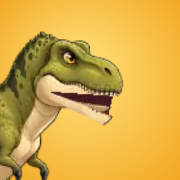
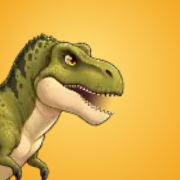
All 28 dinosaurs from sprite pack v4 (rebuilt jaws)
Claude-Session: https://claude.ai/code/session_01VZZ5QiPWKQFCNGsoWHmeoG

Changed region(s): [[0.1389, 0.1667, 0.6944, 0.8333], [0.25, 0.5556, 0.2778, 0.5833]]

diff --git a/index.html b/index.html
@@ -245,7 +245,7 @@ button:focus-visible{outline:4px solid var(--paper);outline-offset:2px}
       <div class="row" id="bkMain"><button id="bkSave" type="button">Back up to a file</button><button id="bkLoad" type="button" class="plain">Restore from a file</button></div>
       <div class="row" id="bkAsk" hidden><button id="bkYes" type="button">Restore it</button><button id="bkNo" type="button" class="plain">Cancel</button></div>
       <div class="row" style="margin-top:12px"><button id="bkClose" type="button" class="plain">Close</button></div>
-      <p style="margin:10px 0 0;font-size:12px;opacity:.55">Version <span id="bkVer">202611011554</span></p>
+      <p style="margin:10px 0 0;font-size:12px;opacity:.55">Version <span id="bkVer">202611011608</span></p>
       <input id="bkFile" type="file" accept=".json,application/json,text/plain" hidden>
     </div>
   </div>
@@ -561,7 +561,7 @@ function desat(col) {
 function realC(sp) { let o = realCols.get(sp); if (!o) { o = {}; for (const k in sp.c) o[k] = typeof sp.c[k] === 'string' ? desat(sp.c[k]) : sp.c[k]; realCols.set(sp, o); } return o; }
 /* painted, rigged animation frames for every species (sprites/<id>.webp): idle, walk (swim or fly for sea and flying reptiles), bite and roar.
    Each sheet loads the first time that animal is shown; until then a still picture from sprites/icons.webp stands in. */
-const SHEET_META = {"trex":{"cw":306,"ch":192,"cols":8,"k":1.0,"body":[4.0,5.0,299.0,188.0],"mouth":[299.0,52.0],"acts":{"idle":{"f":[0,1,2,3,4,5,6,7],"fps":4.0,"op":[0.0,0.0,0.0,0.0,0.0,0.0,0.0,0.0]},"walk":{"f":[8,9,10,11,12,13,14,15,16,17,18,19,20,21,22,23],"fps":16.0,"op":[0.0,0.0,0.0,0.0,0.0,0.0,0.0,0.0,0.0,0.0,0.0,0.0,0.0,0.0,0.0,0.0]},"bite":{"f":[24,25,26,27,28,29,30,31,32,33,34,35],"fps":14.667,"op":[0.0,0.14,0.28,0.52,0.78,1.0,0.37,0.06,0.2,0.14,0.07,0.0]},"roar":{"f":[36,37,38,39,40,41,42,43,44,45],"fps":7.6,"op":[0.0,0.4,0.8,0.95,1.0,0.94,1.0,0.93,0.7,0.23]}},"icon":[0,0]},"spino":{"cw":306,"ch":175,"cols":8,"k":1.0,"body":[4.0,5.0,300.0,171.0],"mouth":[300.0,46.0],"acts":{"idle":{"f":[0,1,2,3,4,5,6,7],"fps":4.0,"op":[0.0,0.0,0.0,0.0,0.0,0.0,0.0,0.0]},"walk":{"f":[8,9,10,11,12,13,14,15,16,17,18,19,20,21,22,23],"fps":16.0,"op":[0.0,0.0,0.0,0.0,0.0,0.0,0.0,0.0,0.0,0.0,0.0,0.0,0.0,0.0,0.0,0.0]},"bite":{"f":[24,25,26,27,28,29,30,31,32,33,34,35],"fps":14.667,"op":[0.0,0.14,0.28,0.52,0.78,1.0,0.37,0.06,0.2,0.14,0.07,0.0]},"roar":{"f":[36,37,38,39,40,41,42,43,44,45],"fps":7.6,"op":[0.0,0.4,0.8,0.95,1.0,0.94,1.0,0.93,0.7,0.23]}},"icon":[323,0]},"raptor":{"cw":312,"ch":198,"cols":8,"k":1.0,"body":[7.0,5.0,306.0,194.0],"mouth":[306.0,44.0],"acts":{"idle":{"f":[0,1,2,3,4,5,6,7],"fps":4.0,"op":[0.0,0.0,0.0,0.0,0.0,0.0,0.0,0.0]},"walk":{"f":[8,9,10,11,12,13,14,15,16,17,18,19,20,21,22,23],"fps":16.0,"op":[0.0,0.0,0.0,0.0,0.0,0.0,0.0,0.0,0.0,0.0,0.0,0.0,0.0,0.0,0.0,0.0]},"bite":{"f":[24,25,26,27,28,29,30,31,32,33,34,35],"fps":14.667,"op":[0.0,0.14,0.28,0.52,0.78,1.0,0.37,0.06,0.2,0.14,0.07,0.0]},"roar":{"f":[36,37,38,39,40,41,42,43,44,45],"fps":7.6,"op":[0.0,0.4,0.8,0.95,1.0,0.94,1.0,0.93,0.7,0.23]}},"icon":[646,0]},"dilo":{"cw":295,"ch":191,"cols":8,"k":1.0,"body":[4.0,5.0,287.0,187.0],"mouth":[287.0,47.0],"acts":{"idle":{"f":[0,1,2,3,4,5,6,7],"fps":4.0,"op":[0.0,0.0,0.0,0.0,0.0,0.0,0.0,0.0]},"walk":{"f":[8,9,10,11,12,13,14,15,16,17,18,19,20,21,22,23],"fps":16.0,"op":[0.0,0.0,0.0,0.0,0.0,0.0,0.0,0.0,0.0,0.0,0.0,0.0,0.0,0.0,0.0,0.0]},"bite":{"f":[24,25,26,27,28,29,30,31,32,33,34,35],"fps":14.667,"op":[0.0,0.14,0.28,0.52,0.78,1.0,0.37,0.06,0.2,0.14,0.07,0.0]},"roar":{"f":[36,37,38,39,40,41,42,43,44,45],"fps":7.6,"op":[0.0,0.4,0.8,0.95,1.0,0.94,1.0,0.93,0.7,0.23]}},"icon":[969,0]},"pachy":{"cw":309,"ch":205,"cols":8,"k":1.0,"body":[5.0,5.0,303.0,201.0],"mouth":[303.0,66.0],"acts":{"idle":{"f":[0,1,2,3,4,5,6,7],"fps":4.0,"op":[0.0,0.0,0.0,0.0,0.0,0.0,0.0,0.0]},"walk":{"f":[8,9,10,11,12,13,14,15,16,17,18,19,20,21,22,23],"fps":16.0,"op":[0.0,0.0,0.0,0.0,0.0,0.0,0.0,0.0,0.0,0.0,0.0,0.0,0.0,0.0,0.0,0.0]},"bite":{"f":[24,25,26,27,28,29,30,31,32,33,34,35],"fps":14.667,"op":[0.0,0.14,0.28,0.52,0.78,1.0,0.37,0.06,0.2,0.14,0.07,0.0]},"roar":{"f":[36,37,38,39,40,41,42,43,44,45],"fps":7.6,"op":[0.0,0.4,0.8,0.95,1.0,0.94,1.0,0.93,0.7,0.23]}},"icon":[1292,0]},"para":{"cw":292,"ch":223,"cols":8,"k":1.0,"body":[4.0,5.0,286.0,219.0],"mouth":[286.0,68.0],"acts":{"idle":{"f":[0,1,2,3,4,5,6,7],"fps":4.0,"op":[0.0,0.0,0.0,0.0,0.0,0.0,0.0,0.0]},"walk":{"f":[8,9,10,11,12,13,14,15,16,17,18,19,20,21,22,23],"fps":16.0,"op":[0.0,0.0,0.0,0.0,0.0,0.0,0.0,0.0,0.0,0.0,0.0,0.0,0.0,0.0,0.0,0.0]},"bite":{"f":[24,25,26,27,28,29,30,31,32,33,34,35],"fps":14.667,"op":[0.0,0.14,0.28,0.52,0.78,1.0,0.37,0.06,0.2,0.14,0.07,0.0]},"roar":{"f":[36,37,38,39,40,41,42,43,44,45],"fps":7.6,"op":[0.0,0.4,0.8,0.95,1.0,0.94,1.0,0.93,0.7,0.23]}},"icon":[1615,0]},"trike":{"cw":286,"ch":196,"cols":8,"k":1.0,"body":[4.0,5.0,274.0,191.0],"mouth":[274.0,27.0],"acts":{"idle":{"f":[0,1,2,3,4,5,6,7],"fps":4.0,"op":[0.0,0.0,0.0,0.0,0.0,0.0,0.0,0.0]},"walk":{"f":[8,9,10,11,12,13,14,15,16,17,18,19,20,21,22,23],"fps":16.0,"op":[0.0,0.0,0.0,0.0,0.0,0.0,0.0,0.0,0.0,0.0,0.0,0.0,0.0,0.0,0.0,0.0]},"bite":{"f":[24,25,26,27,28,29,30,31,32,33,34,35],"fps":14.667,"op":[0.0,0.14,0.28,0.52,0.78,1.0,0.37,0.06,0.2,0.14,0.07,0.0]},"roar":{"f":[36,37,38,39,40,41,42,43,44,45],"fps":7.6,"op":[0.0,0.4,0.8,0.95,1.0,0.94,1.0,0.93,0.7,0.23]}},"icon":[1938,0]},"stego":{"cw":289,"ch":178,"cols":8,"k":1.0,"body":[3.0,4.0,282.0,172.0],"mouth":[272.0,103.0],"acts":{"idle":{"f":[0,1,2,3,4,5,6,7],"fps":4.0,"op":[0.0,0.0,0.0,0.0,0.0,0.0,0.0,0.0]},"walk":{"f":[8,9,10,11,12,13,14,15,16,17,18,19,20,21,22,23],"fps":16.0,"op":[0.0,0.0,0.0,0.0,0.0,0.0,0.0,0.0,0.0,0.0,0.0,0.0,0.0,0.0,0.0,0.0]},"bite":{"f":[24,25,26,27,28,29,30,31,32,33,34,35],"fps":14.667,"op":[0.0,0.14,0.28,0.52,0.78,1.0,0.37,0.06,0.2,0.14,0.07,0.0]},"roar":{"f":[36,37,38,39,40,41,42,43,44,45],"fps":7.6,"op":[0.0,0.4,0.8,0.95,1.0,0.94,1.0,0.93,0.7,0.23]}},"icon":[0,281]},"brachio":{"cw":288,"ch":281,"cols":8,"k":1.0,"body":[7.0,6.0,281.0,276.0],"mouth":[281.0,30.0],"acts":{"idle":{"f":[0,1,2,3,4,5,6,7],"fps":4.0,"op":[0.0,0.0,0.0,0.0,0.0,0.0,0.0,0.0]},"walk":{"f":[8,9,10,11,12,13,14,15,16,17,18,19,20,21,22,23],"fps":16.0,"op":[0.0,0.0,0.0,0.0,0.0,0.0,0.0,0.0,0.0,0.0,0.0,0.0,0.0,0.0,0.0,0.0]},"bite":{"f":[24,25,26,27,28,29,30,31,32,33,34,35],"fps":14.667,"op":[0.0,0.14,0.28,0.52,0.78,1.0,0.37,0.06,0.2,0.14,0.07,0.0]},"roar":{"f":[36,37,38,39,40,41,42,43,44,45],"fps":7.6,"op":[0.0,0.4,0.8,0.95,1.0,0.94,1.0,0.93,0.7,0.23]}},"icon":[323,281]},"ankylo":{"cw":313,"ch":149,"cols":8,"k":1.0,"body":[7.0,11.0,306.0,144.0],"mouth":[306.0,73.0],"acts":{"idle":{"f":[0,1,2,3,4,5,6,7],"fps":4.0,"op":[0.0,0.0,0.0,0.0,0.0,0.0,0.0,0.0]},"walk":{"f":[8,9,10,11,12,13,14,15,16,17,18,19,20,21,22,23],"fps":16.0,"op":[0.0,0.0,0.0,0.0,0.0,0.0,0.0,0.0,0.0,0.0,0.0,0.0,0.0,0.0,0.0,0.0]},"bite":{"f":[24,25,26,27,28,29,30,31,32,33,34,35],"fps":14.667,"op":[0.0,0.14,0.28,0.52,0.78,1.0,0.37,0.06,0.2,0.14,0.07,0.0]},"roar":{"f":[36,37,38,39,40,41,42,43,44,45],"fps":7.6,"op":[0.0,0.4,0.8,0.95,1.0,0.94,1.0,0.93,0.7,0.23]}},"icon":[646,281]},"ptera":{"cw":294,"ch":249,"cols":8,"k":1.0,"body":[13.0,17.0,287.0,239.0],"mouth":[287.0,143.0],"acts":{"idle":{"f":[0,1,2,3,4,5,6,7],"fps":4.0,"op":[0.0,0.0,0.0,0.0,0.0,0.0,0.0,0.0]},"walk":{"f":[8,9,10,11,12,13,14,15,16,17,18,19,20,21,22,23],"fps":16.0,"op":[0.0,0.0,0.0,0.0,0.0,0.0,0.0,0.0,0.0,0.0,0.0,0.0,0.0,0.0,0.0,0.0]},"bite":{"f":[24,25,26,27,28,29,30,31,32,33,34,35],"fps":14.667,"op":[0.0,0.14,0.28,0.52,0.78,1.0,0.37,0.06,0.2,0.14,0.07,0.0]},"roar":{"f":[36,37,38,39,40,41,42,43,44,45],"fps":7.6,"op":[0.0,0.4,0.8,0.95,1.0,0.94,1.0,0.93,0.7,0.23]}},"icon":[969,281]},"mosa":{"cw":295,"ch":141,"cols":8,"k":1.0,"body":[3.0,13.0,289.0,135.0],"mouth":[289.0,48.0],"acts":{"idle":{"f":[0,1,2,3,4,5,6,7],"fps":4.0,"op":[0.0,0.0,0.0,0.0,0.0,0.0,0.0,0.0]},"walk":{"f":[8,9,10,11,12,13,14,15,16,17,18,19,20,21,22,23],"fps":16.0,"op":[0.0,0.0,0.0,0.0,0.0,0.0,0.0,0.0,0.0,0.0,0.0,0.0,0.0,0.0,0.0,0.0]},"bite":{"f":[24,25,26,27,28,29,30,31,32,33,34,35],"fps":14.667,"op":[0.0,0.14,0.28,0.52,0.78,1.0,0.37,0.06,0.2,0.14,0.07,0.0]},"roar":{"f":[36,37,38,39,40,41,42,43,44,45],"fps":7.6,"op":[0.0,0.4,0.8,0.95,1.0,0.94,1.0,0.93,0.7,0.23]}},"icon":[1292,281]},"diplo":{"cw":311,"ch":140,"cols":8,"k":1.0,"body":[5.0,7.0,305.0,134.0],"mouth":[305.0,21.0],"acts":{"idle":{"f":[0,1,2,3,4,5,6,7],"fps":4.0,"op":[0.0,0.0,0.0,0.0,0.0,0.0,0.0,0.0]},"walk":{"f":[8,9,10,11,12,13,14,15,16,17,18,19,20,21,22,23],"fps":16.0,"op":[0.0,0.0,0.0,0.0,0.0,0.0,0.0,0.0,0.0,0.0,0.0,0.0,0.0,0.0,0.0,0.0]},"bite":{"f":[24,25,26,27,28,29,30,31,32,33,34,35],"fps":14.667,"op":[0.0,0.14,0.28,0.52,0.78,1.0,0.37,0.06,0.2,0.14,0.07,0.0]},"roar":{"f":[36,37,38,39,40,41,42,43,44,45],"fps":7.6,"op":[0.0,0.4,0.8,0.95,1.0,0.94,1.0,0.93,0.7,0.23]}},"icon":[1615,281]},"iguan":{"cw":293,"ch":178,"cols":8,"k":1.0,"body":[4.0,6.0,287.0,173.0],"mouth":[287.0,40.0],"acts":{"idle":{"f":[0,1,2,3,4,5,6,7],"fps":4.0,"op":[0.0,0.0,0.0,0.0,0.0,0.0,0.0,0.0]},"walk":{"f":[8,9,10,11,12,13,14,15,16,17,18,19,20,21,22,23],"fps":16.0,"op":[0.0,0.0,0.0,0.0,0.0,0.0,0.0,0.0,0.0,0.0,0.0,0.0,0.0,0.0,0.0,0.0]},"bite":{"f":[24,25,26,27,28,29,30,31,32,33,34,35],"fps":14.667,"op":[0.0,0.14,0.28,0.52,0.78,1.0,0.37,0.06,0.2,0.14,0.07,0.0]},"roar":{"f":[36,37,38,39,40,41,42,43,44,45],"fps":7.6,"op":[0.0,0.4,0.8,0.95,1.0,0.94,1.0,0.93,0.7,0.23]}},"icon":[1938,281]},"styra":{"cw":299,"ch":239,"cols":8,"k":1.0,"body":[5.0,5.0,289.0,234.0],"mouth":[289.0,76.0],"acts":{"idle":{"f":[0,1,2,3,4,5,6,7],"fps":4.0,"op":[0.0,0.0,0.0,0.0,0.0,0.0,0.0,0.0]},"walk":{"f":[8,9,10,11,12,13,14,15,16,17,18,19,20,21,22,23],"fps":16.0,"op":[0.0,0.0,0.0,0.0,0.0,0.0,0.0,0.0,0.0,0.0,0.0,0.0,0.0,0.0,0.0,0.0]},"bite":{"f":[24,25,26,27,28,29,30,31,32,33,34,35],"fps":14.667,"op":[0.0,0.14,0.28,0.52,0.78,1.0,0.37,0.06,0.2,0.14,0.07,0.0]},"roar":{"f":[36,37,38,39,40,41,42,43,44,45],"fps":7.6,"op":[0.0,0.4,0.8,0.95,1.0,0.94,1.0,0.93,0.7,0.23]}},"icon":[0,562]},"theri":{"cw":286,"ch":252,"cols":8,"k":1.0,"body":[6.0,5.0,279.0,248.0],"mouth":[268.0,42.0],"acts":{"idle":{"f":[0,1,2,3,4,5,6,7],"fps":4.0,"op":[0.0,0.0,0.0,0.0,0.0,0.0,0.0,0.0]},"walk":{"f":[8,9,10,11,12,13,14,15,16,17,18,19,20,21,22,23],"fps":16.0,"op":[0.0,0.0,0.0,0.0,0.0,0.0,0.0,0.0,0.0,0.0,0.0,0.0,0.0,0.0,0.0,0.0]},"bite":{"f":[24,25,26,27,28,29,30,31,32,33,34,35],"fps":14.667,"op":[0.0,0.14,0.28,0.52,0.78,1.0,0.37,0.06,0.2,0.14,0.07,0.0]},"roar":{"f":[36,37,38,39,40,41,42,43,44,45],"fps":7.6,"op":[0.0,0.4,0.8,0.95,1.0,0.94,1.0,0.93,0.7,0.23]}},"icon":[323,562]},"galli":{"cw":284,"ch":225,"cols":8,"k":1.0,"body":[4.0,5.0,277.0,220.0],"mouth":[277.0,32.0],"acts":{"idle":{"f":[0,1,2,3,4,5,6,7],"fps":4.0,"op":[0.0,0.0,0.0,0.0,0.0,0.0,0.0,0.0]},"walk":{"f":[8,9,10,11,12,13,14,15,16,17,18,19,20,21,22,23],"fps":16.0,"op":[0.0,0.0,0.0,0.0,0.0,0.0,0.0,0.0,0.0,0.0,0.0,0.0,0.0,0.0,0.0,0.0]},"bite":{"f":[24,25,26,27,28,29,30,31,32,33,34,35],"fps":14.667,"op":[0.0,0.14,0.28,0.52,0.78,1.0,0.37,0.06,0.2,0.14,0.07,0.0]},"roar":{"f":[36,37,38,39,40,41,42,43,44,45],"fps":7.6,"op":[0.0,0.4,0.8,0.95,1.0,0.94,1.0,0.93,0.7,0.23]}},"icon":[646,562]},"kentro":{"cw":292,"ch":156,"cols":8,"k":1.0,"body":[3.0,4.0,284.0,151.0],"mouth":[284.0,90.0],"acts":{"idle":{"f":[0,1,2,3,4,5,6,7],"fps":4.0,"op":[0.0,0.0,0.0,0.0,0.0,0.0,0.0,0.0]},"walk":{"f":[8,9,10,11,12,13,14,15,16,17,18,19,20,21,22,23],"fps":16.0,"op":[0.0,0.0,0.0,0.0,0.0,0.0,0.0,0.0,0.0,0.0,0.0,0.0,0.0,0.0,0.0,0.0]},"bite":{"f":[24,25,26,27,28,29,30,31,32,33,34,35],"fps":14.667,"op":[0.0,0.14,0.28,0.52,0.78,1.0,0.37,0.06,0.2,0.14,0.07,0.0]},"roar":{"f":[36,37,38,39,40,41,42,43,44,45],"fps":7.6,"op":[0.0,0.4,0.8,0.95,1.0,0.94,1.0,0.93,0.7,0.23]}},"icon":[969,562]},"carno":{"cw":302,"ch":196,"cols":8,"k":1.0,"body":[4.0,5.0,296.0,192.0],"mouth":[296.0,54.0],"acts":{"idle":{"f":[0,1,2,3,4,5,6,7],"fps":4.0,"op":[0.0,0.0,0.0,0.0,0.0,0.0,0.0,0.0]},"walk":{"f":[8,9,10,11,12,13,14,15,16,17,18,19,20,21,22,23],"fps":16.0,"op":[0.0,0.0,0.0,0.0,0.0,0.0,0.0,0.0,0.0,0.0,0.0,0.0,0.0,0.0,0.0,0.0]},"bite":{"f":[24,25,26,27,28,29,30,31,32,33,34,35],"fps":14.667,"op":[0.0,0.14,0.28,0.52,0.78,1.0,0.37,0.06,0.2,0.14,0.07,0.0]},"roar":{"f":[36,37,38,39,40,41,42,43,44,45],"fps":7.6,"op":[0.0,0.4,0.8,0.95,1.0,0.94,1.0,0.93,0.7,0.23]}},"icon":[1292,562]},"allo":{"cw":285,"ch":186,"cols":8,"k":1.0,"body":[3.0,5.0,278.0,182.0],"mouth":[278.0,41.0],"acts":{"idle":{"f":[0,1,2,3,4,5,6,7],"fps":4.0,"op":[0.0,0.0,0.0,0.0,0.0,0.0,0.0,0.0]},"walk":{"f":[8,9,10,11,12,13,14,15,16,17,18,19,20,21,22,23],"fps":16.0,"op":[0.0,0.0,0.0,0.0,0.0,0.0,0.0,0.0,0.0,0.0,0.0,0.0,0.0,0.0,0.0,0.0]},"bite":{"f":[24,25,26,27,28,29,30,31,32,33,34,35],"fps":14.667,"op":[0.0,0.14,0.28,0.52,0.78,1.0,0.37,0.06,0.2,0.14,0.07,0.0]},"roar":{"f":[36,37,38,39,40,41,42,43,44,45],"fps":7.6,"op":[0.0,0.4,0.8,0.95,1.0,0.94,1.0,0.93,0.7,0.23]}},"icon":[1615,562]},"giga":{"cw":304,"ch":180,"cols":8,"k":1.0,"body":[4.0,5.0,297.0,176.0],"mouth":[297.0,48.0],"acts":{"idle":{"f":[0,1,2,3,4,5,6,7],"fps":4.0,"op":[0.0,0.0,0.0,0.0,0.0,0.0,0.0,0.0]},"walk":{"f":[8,9,10,11,12,13,14,15,16,17,18,19,20,21,22,23],"fps":16.0,"op":[0.0,0.0,0.0,0.0,0.0,0.0,0.0,0.0,0.0,0.0,0.0,0.0,0.0,0.0,0.0,0.0]},"bite":{"f":[24,25,26,27,28,29,30,31,32,33,34,35],"fps":14.667,"op":[0.0,0.14,0.28,0.52,0.78,1.0,0.37,0.06,0.2,0.14,0.07,0.0]},"roar":{"f":[36,37,38,39,40,41,42,43,44,45],"fps":7.6,"op":[0.0,0.4,0.8,0.95,1.0,0.94,1.0,0.93,0.7,0.23]}},"icon":[1938,562]},"bary":{"cw":301,"ch":183,"cols":8,"k":1.0,"body":[3.0,5.0,296.0,178.0],"mouth":[296.0,50.0],"acts":{"idle":{"f":[0,1,2,3,4,5,6,7],"fps":4.0,"op":[0.0,0.0,0.0,0.0,0.0,0.0,0.0,0.0]},"walk":{"f":[8,9,10,11,12,13,14,15,16,17,18,19,20,21,22,23],"fps":16.0,"op":[0.0,0.0,0.0,0.0,0.0,0.0,0.0,0.0,0.0,0.0,0.0,0.0,0.0,0.0,0.0,0.0]},"bite":{"f":[24,25,26,27,28,29,30,31,32,33,34,35],"fps":14.667,"op":[0.0,0.14,0.28,0.52,0.78,1.0,0.37,0.06,0.2,0.14,0.07,0.0]},"roar":{"f":[36,37,38,39,40,41,42,43,44,45],"fps":7.6,"op":[0.0,0.4,0.8,0.95,1.0,0.94,1.0,0.93,0.7,0.23]}},"icon":[0,843]},"compy":{"cw":309,"ch":190,"cols":8,"k":1.0,"body":[3.0,5.0,303.0,186.0],"mouth":[303.0,40.0],"acts":{"idle":{"f":[0,1,2,3,4,5,6,7],"fps":4.0,"op":[0.0,0.0,0.0,0.0,0.0,0.0,0.0,0.0]},"walk":{"f":[8,9,10,11,12,13,14,15,16,17,18,19,20,21,22,23],"fps":16.0,"op":[0.0,0.0,0.0,0.0,0.0,0.0,0.0,0.0,0.0,0.0,0.0,0.0,0.0,0.0,0.0,0.0]},"bite":{"f":[24,25,26,27,28,29,30,31,32,33,34,35],"fps":14.667,"op":[0.0,0.14,0.28,0.52,0.78,1.0,0.37,0.06,0.2,0.14,0.07,0.0]},"roar":{"f":[36,37,38,39,40,41,42,43,44,45],"fps":7.6,"op":[0.0,0.4,0.8,0.95,1.0,0.94,1.0,0.93,0.7,0.23]}},"icon":[323,843]},"cerato":{"cw":302,"ch":190,"cols":8,"k":1.0,"body":[2.0,4.0,295.0,185.0],"mouth":[295.0,46.0],"acts":{"idle":{"f":[0,1,2,3,4,5,6,7],"fps":4.0,"op":[0.0,0.0,0.0,0.0,0.0,0.0,0.0,0.0]},"walk":{"f":[8,9,10,11,12,13,14,15,16,17,18,19,20,21,22,23],"fps":16.0,"op":[0.0,0.0,0.0,0.0,0.0,0.0,0.0,0.0,0.0,0.0,0.0,0.0,0.0,0.0,0.0,0.0]},"bite":{"f":[24,25,26,27,28,29,30,31,32,33,34,35],"fps":14.667,"op":[0.0,0.14,0.28,0.52,0.78,1.0,0.37,0.06,0.2,0.14,0.07,0.0]},"roar":{"f":[36,37,38,39,40,41,42,43,44,45],"fps":7.6,"op":[0.0,0.4,0.8,0.95,1.0,0.94,1.0,0.93,0.7,0.23]}},"icon":[646,843]},"elasmo":{"cw":301,"ch":173,"cols":8,"k":1.0,"body":[3.0,6.0,294.0,167.0],"mouth":[294.0,27.0],"acts":{"idle":{"f":[0,1,2,3,4,5,6,7],"fps":4.0,"op":[0.0,0.0,0.0,0.0,0.0,0.0,0.0,0.0]},"walk":{"f":[8,9,10,11,12,13,14,15,16,17,18,19,20,21,22,23],"fps":16.0,"op":[0.0,0.0,0.0,0.0,0.0,0.0,0.0,0.0,0.0,0.0,0.0,0.0,0.0,0.0,0.0,0.0]},"bite":{"f":[24,25,26,27,28,29,30,31,32,33,34,35],"fps":14.667,"op":[0.0,0.14,0.28,0.52,0.78,1.0,0.37,0.06,0.2,0.14,0.07,0.0]},"roar":{"f":[36,37,38,39,40,41,42,43,44,45],"fps":7.6,"op":[0.0,0.4,0.8,0.95,1.0,0.94,1.0,0.93,0.7,0.23]}},"icon":[969,843]},"ichthy":{"cw":315,"ch":145,"cols":8,"k":1.0,"body":[7.0,4.0,309.0,139.0],"mouth":[309.0,81.0],"acts":{"idle":{"f":[0,1,2,3,4,5,6,7],"fps":4.0,"op":[0.0,0.0,0.0,0.0,0.0,0.0,0.0,0.0]},"walk":{"f":[8,9,10,11,12,13,14,15,16,17,18,19,20,21,22,23],"fps":16.0,"op":[0.0,0.0,0.0,0.0,0.0,0.0,0.0,0.0,0.0,0.0,0.0,0.0,0.0,0.0,0.0,0.0]},"bite":{"f":[24,25,26,27,28,29,30,31,32,33,34,35],"fps":14.667,"op":[0.0,0.14,0.28,0.52,0.78,1.0,0.37,0.06,0.2,0.14,0.07,0.0]},"roar":{"f":[36,37,38,39,40,41,42,43,44,45],"fps":7.6,"op":[0.0,0.4,0.8,0.95,1.0,0.94,1.0,0.93,0.7,0.23]}},"icon":[1292,843]},"quetz":{"cw":323,"ch":273,"cols":8,"k":1.0,"body":[14.0,19.0,315.0,262.0],"mouth":[315.0,115.0],"acts":{"idle":{"f":[0,1,2,3,4,5,6,7],"fps":4.0,"op":[0.0,0.0,0.0,0.0,0.0,0.0,0.0,0.0]},"walk":{"f":[8,9,10,11,12,13,14,15,16,17,18,19,20,21,22,23],"fps":16.0,"op":[0.0,0.0,0.0,0.0,0.0,0.0,0.0,0.0,0.0,0.0,0.0,0.0,0.0,0.0,0.0,0.0]},"bite":{"f":[24,25,26,27,28,29,30,31,32,33,34,35],"fps":14.667,"op":[0.0,0.14,0.28,0.52,0.78,1.0,0.37,0.06,0.2,0.14,0.07,0.0]},"roar":{"f":[36,37,38,39,40,41,42,43,44,45],"fps":7.6,"op":[0.0,0.4,0.8,0.95,1.0,0.94,1.0,0.93,0.7,0.23]}},"icon":[1615,843]},"dimorph":{"cw":294,"ch":230,"cols":8,"k":1.0,"body":[13.0,16.0,288.0,222.0],"mouth":[288.0,114.0],"acts":{"idle":{"f":[0,1,2,3,4,5,6,7],"fps":4.0,"op":[0.0,0.0,0.0,0.0,0.0,0.0,0.0,0.0]},"walk":{"f":[8,9,10,11,12,13,14,15,16,17,18,19,20,21,22,23],"fps":16.0,"op":[0.0,0.0,0.0,0.0,0.0,0.0,0.0,0.0,0.0,0.0,0.0,0.0,0.0,0.0,0.0,0.0]},"bite":{"f":[24,25,26,27,28,29,30,31,32,33,34,35],"fps":14.667,"op":[0.0,0.14,0.28,0.52,0.78,1.0,0.37,0.06,0.2,0.14,0.07,0.0]},"roar":{"f":[36,37,38,39,40,41,42,43,44,45],"fps":7.6,"op":[0.0,0.4,0.8,0.95,1.0,0.94,1.0,0.93,0.7,0.23]}},"icon":[1938,843]}};
+const SHEET_META = {"trex":{"cw":306,"ch":192,"cols":8,"k":1.0,"body":[4.0,5.0,299.0,188.0],"mouth":[299.0,52.0],"acts":{"idle":{"f":[0,1,2,3,4,5,6,7],"fps":4.0,"op":[0.0,0.0,0.0,0.0,0.0,0.0,0.0,0.0]},"walk":{"f":[8,9,10,11,12,13,14,15,16,17,18,19,20,21,22,23],"fps":16.0,"op":[0.0,0.0,0.0,0.0,0.0,0.0,0.0,0.0,0.0,0.0,0.0,0.0,0.0,0.0,0.0,0.0]},"bite":{"f":[24,25,26,27,28,29,30,31,32,33,34,35],"fps":14.667,"op":[0.0,0.14,0.28,0.52,0.78,1.0,0.37,0.06,0.2,0.14,0.07,0.0]},"roar":{"f":[36,37,38,39,40,41,42,43,44,45],"fps":7.6,"op":[0.0,0.4,0.8,0.95,1.0,0.94,1.0,0.93,0.7,0.23]}},"icon":[0,0]},"spino":{"cw":306,"ch":175,"cols":8,"k":1.0,"body":[4.0,5.0,300.0,171.0],"mouth":[300.0,46.0],"acts":{"idle":{"f":[0,1,2,3,4,5,6,7],"fps":4.0,"op":[0.0,0.0,0.0,0.0,0.0,0.0,0.0,0.0]},"walk":{"f":[8,9,10,11,12,13,14,15,16,17,18,19,20,21,22,23],"fps":16.0,"op":[0.0,0.0,0.0,0.0,0.0,0.0,0.0,0.0,0.0,0.0,0.0,0.0,0.0,0.0,0.0,0.0]},"bite":{"f":[24,25,26,27,28,29,30,31,32,33,34,35],"fps":14.667,"op":[0.0,0.14,0.28,0.52,0.78,1.0,0.37,0.06,0.2,0.14,0.07,0.0]},"roar":{"f":[36,37,38,39,40,41,42,43,44,45],"fps":7.6,"op":[0.0,0.4,0.8,0.95,1.0,0.94,1.0,0.93,0.7,0.23]}},"icon":[323,0]},"raptor":{"cw":313,"ch":198,"cols":8,"k":1.0,"body":[7.0,5.0,306.0,194.0],"mouth":[306.0,44.0],"acts":{"idle":{"f":[0,1,2,3,4,5,6,7],"fps":4.0,"op":[0.0,0.0,0.0,0.0,0.0,0.0,0.0,0.0]},"walk":{"f":[8,9,10,11,12,13,14,15,16,17,18,19,20,21,22,23],"fps":16.0,"op":[0.0,0.0,0.0,0.0,0.0,0.0,0.0,0.0,0.0,0.0,0.0,0.0,0.0,0.0,0.0,0.0]},"bite":{"f":[24,25,26,27,28,29,30,31,32,33,34,35],"fps":14.667,"op":[0.0,0.14,0.28,0.52,0.78,1.0,0.37,0.06,0.2,0.14,0.07,0.0]},"roar":{"f":[36,37,38,39,40,41,42,43,44,45],"fps":7.6,"op":[0.0,0.4,0.8,0.95,1.0,0.94,1.0,0.93,0.7,0.23]}},"icon":[646,0]},"dilo":{"cw":296,"ch":191,"cols":8,"k":1.0,"body":[4.0,5.0,287.0,187.0],"mouth":[287.0,47.0],"acts":{"idle":{"f":[0,1,2,3,4,5,6,7],"fps":4.0,"op":[0.0,0.0,0.0,0.0,0.0,0.0,0.0,0.0]},"walk":{"f":[8,9,10,11,12,13,14,15,16,17,18,19,20,21,22,23],"fps":16.0,"op":[0.0,0.0,0.0,0.0,0.0,0.0,0.0,0.0,0.0,0.0,0.0,0.0,0.0,0.0,0.0,0.0]},"bite":{"f":[24,25,26,27,28,29,30,31,32,33,34,35],"fps":14.667,"op":[0.0,0.14,0.28,0.52,0.78,1.0,0.37,0.06,0.2,0.14,0.07,0.0]},"roar":{"f":[36,37,38,39,40,41,42,43,44,45],"fps":7.6,"op":[0.0,0.4,0.8,0.95,1.0,0.94,1.0,0.93,0.7,0.23]}},"icon":[969,0]},"pachy":{"cw":310,"ch":205,"cols":8,"k":1.0,"body":[5.0,5.0,303.0,201.0],"mouth":[303.0,66.0],"acts":{"idle":{"f":[0,1,2,3,4,5,6,7],"fps":4.0,"op":[0.0,0.0,0.0,0.0,0.0,0.0,0.0,0.0]},"walk":{"f":[8,9,10,11,12,13,14,15,16,17,18,19,20,21,22,23],"fps":16.0,"op":[0.0,0.0,0.0,0.0,0.0,0.0,0.0,0.0,0.0,0.0,0.0,0.0,0.0,0.0,0.0,0.0]},"bite":{"f":[24,25,26,27,28,29,30,31,32,33,34,35],"fps":14.667,"op":[0.0,0.14,0.28,0.52,0.78,1.0,0.37,0.06,0.2,0.14,0.07,0.0]},"roar":{"f":[36,37,38,39,40,41,42,43,44,45],"fps":7.6,"op":[0.0,0.4,0.8,0.95,1.0,0.94,1.0,0.93,0.7,0.23]}},"icon":[1292,0]},"para":{"cw":293,"ch":223,"cols":8,"k":1.0,"body":[4.0,5.0,286.0,219.0],"mouth":[286.0,68.0],"acts":{"idle":{"f":[0,1,2,3,4,5,6,7],"fps":4.0,"op":[0.0,0.0,0.0,0.0,0.0,0.0,0.0,0.0]},"walk":{"f":[8,9,10,11,12,13,14,15,16,17,18,19,20,21,22,23],"fps":16.0,"op":[0.0,0.0,0.0,0.0,0.0,0.0,0.0,0.0,0.0,0.0,0.0,0.0,0.0,0.0,0.0,0.0]},"bite":{"f":[24,25,26,27,28,29,30,31,32,33,34,35],"fps":14.667,"op":[0.0,0.14,0.28,0.52,0.78,1.0,0.37,0.06,0.2,0.14,0.07,0.0]},"roar":{"f":[36,37,38,39,40,41,42,43,44,45],"fps":7.6,"op":[0.0,0.4,0.8,0.95,1.0,0.94,1.0,0.93,0.7,0.23]}},"icon":[1615,0]},"trike":{"cw":287,"ch":196,"cols":8,"k":1.0,"body":[4.0,5.0,274.0,191.0],"mouth":[274.0,27.0],"acts":{"idle":{"f":[0,1,2,3,4,5,6,7],"fps":4.0,"op":[0.0,0.0,0.0,0.0,0.0,0.0,0.0,0.0]},"walk":{"f":[8,9,10,11,12,13,14,15,16,17,18,19,20,21,22,23],"fps":16.0,"op":[0.0,0.0,0.0,0.0,0.0,0.0,0.0,0.0,0.0,0.0,0.0,0.0,0.0,0.0,0.0,0.0]},"bite":{"f":[24,25,26,27,28,29,30,31,32,33,34,35],"fps":14.667,"op":[0.0,0.14,0.28,0.52,0.78,1.0,0.37,0.06,0.2,0.14,0.07,0.0]},"roar":{"f":[36,37,38,39,40,41,42,43,44,45],"fps":7.6,"op":[0.0,0.4,0.8,0.95,1.0,0.94,1.0,0.93,0.7,0.23]}},"icon":[1938,0]},"stego":{"cw":289,"ch":178,"cols":8,"k":1.0,"body":[3.0,4.0,282.0,172.0],"mouth":[272.0,103.0],"acts":{"idle":{"f":[0,1,2,3,4,5,6,7],"fps":4.0,"op":[0.0,0.0,0.0,0.0,0.0,0.0,0.0,0.0]},"walk":{"f":[8,9,10,11,12,13,14,15,16,17,18,19,20,21,22,23],"fps":16.0,"op":[0.0,0.0,0.0,0.0,0.0,0.0,0.0,0.0,0.0,0.0,0.0,0.0,0.0,0.0,0.0,0.0]},"bite":{"f":[24,25,26,27,28,29,30,31,32,33,34,35],"fps":14.667,"op":[0.0,0.14,0.28,0.52,0.78,1.0,0.37,0.06,0.2,0.14,0.07,0.0]},"roar":{"f":[36,37,38,39,40,41,42,43,44,45],"fps":7.6,"op":[0.0,0.4,0.8,0.95,1.0,0.94,1.0,0.93,0.7,0.23]}},"icon":[0,280]},"brachio":{"cw":288,"ch":280,"cols":8,"k":1.0,"body":[7.0,5.0,281.0,275.0],"mouth":[281.0,29.0],"acts":{"idle":{"f":[0,1,2,3,4,5,6,7],"fps":4.0,"op":[0.0,0.0,0.0,0.0,0.0,0.0,0.0,0.0]},"walk":{"f":[8,9,10,11,12,13,14,15,16,17,18,19,20,21,22,23],"fps":16.0,"op":[0.0,0.0,0.0,0.0,0.0,0.0,0.0,0.0,0.0,0.0,0.0,0.0,0.0,0.0,0.0,0.0]},"bite":{"f":[24,25,26,27,28,29,30,31,32,33,34,35],"fps":14.667,"op":[0.0,0.14,0.28,0.52,0.78,1.0,0.37,0.06,0.2,0.14,0.07,0.0]},"roar":{"f":[36,37,38,39,40,41,42,43,44,45],"fps":7.6,"op":[0.0,0.4,0.8,0.95,1.0,0.94,1.0,0.93,0.7,0.23]}},"icon":[323,280]},"ankylo":{"cw":313,"ch":149,"cols":8,"k":1.0,"body":[7.0,11.0,306.0,144.0],"mouth":[306.0,73.0],"acts":{"idle":{"f":[0,1,2,3,4,5,6,7],"fps":4.0,"op":[0.0,0.0,0.0,0.0,0.0,0.0,0.0,0.0]},"walk":{"f":[8,9,10,11,12,13,14,15,16,17,18,19,20,21,22,23],"fps":16.0,"op":[0.0,0.0,0.0,0.0,0.0,0.0,0.0,0.0,0.0,0.0,0.0,0.0,0.0,0.0,0.0,0.0]},"bite":{"f":[24,25,26,27,28,29,30,31,32,33,34,35],"fps":14.667,"op":[0.0,0.14,0.28,0.52,0.78,1.0,0.37,0.06,0.2,0.14,0.07,0.0]},"roar":{"f":[36,37,38,39,40,41,42,43,44,45],"fps":7.6,"op":[0.0,0.4,0.8,0.95,1.0,0.94,1.0,0.93,0.7,0.23]}},"icon":[646,280]},"ptera":{"cw":294,"ch":249,"cols":8,"k":1.0,"body":[13.0,17.0,287.0,239.0],"mouth":[287.0,143.0],"acts":{"idle":{"f":[0,1,2,3,4,5,6,7],"fps":4.0,"op":[0.0,0.0,0.0,0.0,0.0,0.0,0.0,0.0]},"walk":{"f":[8,9,10,11,12,13,14,15,16,17,18,19,20,21,22,23],"fps":16.0,"op":[0.0,0.0,0.0,0.0,0.0,0.0,0.0,0.0,0.0,0.0,0.0,0.0,0.0,0.0,0.0,0.0]},"bite":{"f":[24,25,26,27,28,29,30,31,32,33,34,35],"fps":14.667,"op":[0.0,0.14,0.28,0.52,0.78,1.0,0.37,0.06,0.2,0.14,0.07,0.0]},"roar":{"f":[36,37,38,39,40,41,42,43,44,45],"fps":7.6,"op":[0.0,0.4,0.8,0.95,1.0,0.94,1.0,0.93,0.7,0.23]}},"icon":[969,280]},"mosa":{"cw":295,"ch":141,"cols":8,"k":1.0,"body":[3.0,13.0,289.0,135.0],"mouth":[289.0,48.0],"acts":{"idle":{"f":[0,1,2,3,4,5,6,7],"fps":4.0,"op":[0.0,0.0,0.0,0.0,0.0,0.0,0.0,0.0]},"walk":{"f":[8,9,10,11,12,13,14,15,16,17,18,19,20,21,22,23],"fps":16.0,"op":[0.0,0.0,0.0,0.0,0.0,0.0,0.0,0.0,0.0,0.0,0.0,0.0,0.0,0.0,0.0,0.0]},"bite":{"f":[24,25,26,27,28,29,30,31,32,33,34,35],"fps":14.667,"op":[0.0,0.14,0.28,0.52,0.78,1.0,0.37,0.06,0.2,0.14,0.07,0.0]},"roar":{"f":[36,37,38,39,40,41,42,43,44,45],"fps":7.6,"op":[0.0,0.4,0.8,0.95,1.0,0.94,1.0,0.93,0.7,0.23]}},"icon":[1292,280]},"diplo":{"cw":312,"ch":138,"cols":8,"k":1.0,"body":[5.0,5.0,305.0,132.0],"mouth":[305.0,19.0],"acts":{"idle":{"f":[0,1,2,3,4,5,6,7],"fps":4.0,"op":[0.0,0.0,0.0,0.0,0.0,0.0,0.0,0.0]},"walk":{"f":[8,9,10,11,12,13,14,15,16,17,18,19,20,21,22,23],"fps":16.0,"op":[0.0,0.0,0.0,0.0,0.0,0.0,0.0,0.0,0.0,0.0,0.0,0.0,0.0,0.0,0.0,0.0]},"bite":{"f":[24,25,26,27,28,29,30,31,32,33,34,35],"fps":14.667,"op":[0.0,0.14,0.28,0.52,0.78,1.0,0.37,0.06,0.2,0.14,0.07,0.0]},"roar":{"f":[36,37,38,39,40,41,42,43,44,45],"fps":7.6,"op":[0.0,0.4,0.8,0.95,1.0,0.94,1.0,0.93,0.7,0.23]}},"icon":[1615,280]},"iguan":{"cw":294,"ch":177,"cols":8,"k":1.0,"body":[4.0,5.0,287.0,172.0],"mouth":[287.0,39.0],"acts":{"idle":{"f":[0,1,2,3,4,5,6,7],"fps":4.0,"op":[0.0,0.0,0.0,0.0,0.0,0.0,0.0,0.0]},"walk":{"f":[8,9,10,11,12,13,14,15,16,17,18,19,20,21,22,23],"fps":16.0,"op":[0.0,0.0,0.0,0.0,0.0,0.0,0.0,0.0,0.0,0.0,0.0,0.0,0.0,0.0,0.0,0.0]},"bite":{"f":[24,25,26,27,28,29,30,31,32,33,34,35],"fps":14.667,"op":[0.0,0.14,0.28,0.52,0.78,1.0,0.37,0.06,0.2,0.14,0.07,0.0]},"roar":{"f":[36,37,38,39,40,41,42,43,44,45],"fps":7.6,"op":[0.0,0.4,0.8,0.95,1.0,0.94,1.0,0.93,0.7,0.23]}},"icon":[1938,280]},"styra":{"cw":302,"ch":239,"cols":8,"k":1.0,"body":[5.0,5.0,289.0,234.0],"mouth":[289.0,76.0],"acts":{"idle":{"f":[0,1,2,3,4,5,6,7],"fps":4.0,"op":[0.0,0.0,0.0,0.0,0.0,0.0,0.0,0.0]},"walk":{"f":[8,9,10,11,12,13,14,15,16,17,18,19,20,21,22,23],"fps":16.0,"op":[0.0,0.0,0.0,0.0,0.0,0.0,0.0,0.0,0.0,0.0,0.0,0.0,0.0,0.0,0.0,0.0]},"bite":{"f":[24,25,26,27,28,29,30,31,32,33,34,35],"fps":14.667,"op":[0.0,0.14,0.28,0.52,0.78,1.0,0.37,0.06,0.2,0.14,0.07,0.0]},"roar":{"f":[36,37,38,39,40,41,42,43,44,45],"fps":7.6,"op":[0.0,0.4,0.8,0.95,1.0,0.94,1.0,0.93,0.7,0.23]}},"icon":[0,560]},"theri":{"cw":286,"ch":252,"cols":8,"k":1.0,"body":[6.0,5.0,279.0,248.0],"mouth":[268.0,42.0],"acts":{"idle":{"f":[0,1,2,3,4,5,6,7],"fps":4.0,"op":[0.0,0.0,0.0,0.0,0.0,0.0,0.0,0.0]},"walk":{"f":[8,9,10,11,12,13,14,15,16,17,18,19,20,21,22,23],"fps":16.0,"op":[0.0,0.0,0.0,0.0,0.0,0.0,0.0,0.0,0.0,0.0,0.0,0.0,0.0,0.0,0.0,0.0]},"bite":{"f":[24,25,26,27,28,29,30,31,32,33,34,35],"fps":14.667,"op":[0.0,0.14,0.28,0.52,0.78,1.0,0.37,0.06,0.2,0.14,0.07,0.0]},"roar":{"f":[36,37,38,39,40,41,42,43,44,45],"fps":7.6,"op":[0.0,0.4,0.8,0.95,1.0,0.94,1.0,0.93,0.7,0.23]}},"icon":[323,560]},"galli":{"cw":284,"ch":225,"cols":8,"k":1.0,"body":[4.0,5.0,277.0,220.0],"mouth":[277.0,32.0],"acts":{"idle":{"f":[0,1,2,3,4,5,6,7],"fps":4.0,"op":[0.0,0.0,0.0,0.0,0.0,0.0,0.0,0.0]},"walk":{"f":[8,9,10,11,12,13,14,15,16,17,18,19,20,21,22,23],"fps":16.0,"op":[0.0,0.0,0.0,0.0,0.0,0.0,0.0,0.0,0.0,0.0,0.0,0.0,0.0,0.0,0.0,0.0]},"bite":{"f":[24,25,26,27,28,29,30,31,32,33,34,35],"fps":14.667,"op":[0.0,0.14,0.28,0.52,0.78,1.0,0.37,0.06,0.2,0.14,0.07,0.0]},"roar":{"f":[36,37,38,39,40,41,42,43,44,45],"fps":7.6,"op":[0.0,0.4,0.8,0.95,1.0,0.94,1.0,0.93,0.7,0.23]}},"icon":[646,560]},"kentro":{"cw":292,"ch":156,"cols":8,"k":1.0,"body":[3.0,4.0,284.0,151.0],"mouth":[284.0,90.0],"acts":{"idle":{"f":[0,1,2,3,4,5,6,7],"fps":4.0,"op":[0.0,0.0,0.0,0.0,0.0,0.0,0.0,0.0]},"walk":{"f":[8,9,10,11,12,13,14,15,16,17,18,19,20,21,22,23],"fps":16.0,"op":[0.0,0.0,0.0,0.0,0.0,0.0,0.0,0.0,0.0,0.0,0.0,0.0,0.0,0.0,0.0,0.0]},"bite":{"f":[24,25,26,27,28,29,30,31,32,33,34,35],"fps":14.667,"op":[0.0,0.14,0.28,0.52,0.78,1.0,0.37,0.06,0.2,0.14,0.07,0.0]},"roar":{"f":[36,37,38,39,40,41,42,43,44,45],"fps":7.6,"op":[0.0,0.4,0.8,0.95,1.0,0.94,1.0,0.93,0.7,0.23]}},"icon":[969,560]},"carno":{"cw":303,"ch":195,"cols":8,"k":1.0,"body":[4.0,4.0,296.0,191.0],"mouth":[296.0,53.0],"acts":{"idle":{"f":[0,1,2,3,4,5,6,7],"fps":4.0,"op":[0.0,0.0,0.0,0.0,0.0,0.0,0.0,0.0]},"walk":{"f":[8,9,10,11,12,13,14,15,16,17,18,19,20,21,22,23],"fps":16.0,"op":[0.0,0.0,0.0,0.0,0.0,0.0,0.0,0.0,0.0,0.0,0.0,0.0,0.0,0.0,0.0,0.0]},"bite":{"f":[24,25,26,27,28,29,30,31,32,33,34,35],"fps":14.667,"op":[0.0,0.14,0.28,0.52,0.78,1.0,0.37,0.06,0.2,0.14,0.07,0.0]},"roar":{"f":[36,37,38,39,40,41,42,43,44,45],"fps":7.6,"op":[0.0,0.4,0.8,0.95,1.0,0.94,1.0,0.93,0.7,0.23]}},"icon":[1292,560]},"allo":{"cw":285,"ch":186,"cols":8,"k":1.0,"body":[3.0,5.0,278.0,182.0],"mouth":[278.0,41.0],"acts":{"idle":{"f":[0,1,2,3,4,5,6,7],"fps":4.0,"op":[0.0,0.0,0.0,0.0,0.0,0.0,0.0,0.0]},"walk":{"f":[8,9,10,11,12,13,14,15,16,17,18,19,20,21,22,23],"fps":16.0,"op":[0.0,0.0,0.0,0.0,0.0,0.0,0.0,0.0,0.0,0.0,0.0,0.0,0.0,0.0,0.0,0.0]},"bite":{"f":[24,25,26,27,28,29,30,31,32,33,34,35],"fps":14.667,"op":[0.0,0.14,0.28,0.52,0.78,1.0,0.37,0.06,0.2,0.14,0.07,0.0]},"roar":{"f":[36,37,38,39,40,41,42,43,44,45],"fps":7.6,"op":[0.0,0.4,0.8,0.95,1.0,0.94,1.0,0.93,0.7,0.23]}},"icon":[1615,560]},"giga":{"cw":304,"ch":180,"cols":8,"k":1.0,"body":[4.0,5.0,297.0,176.0],"mouth":[297.0,48.0],"acts":{"idle":{"f":[0,1,2,3,4,5,6,7],"fps":4.0,"op":[0.0,0.0,0.0,0.0,0.0,0.0,0.0,0.0]},"walk":{"f":[8,9,10,11,12,13,14,15,16,17,18,19,20,21,22,23],"fps":16.0,"op":[0.0,0.0,0.0,0.0,0.0,0.0,0.0,0.0,0.0,0.0,0.0,0.0,0.0,0.0,0.0,0.0]},"bite":{"f":[24,25,26,27,28,29,30,31,32,33,34,35],"fps":14.667,"op":[0.0,0.14,0.28,0.52,0.78,1.0,0.37,0.06,0.2,0.14,0.07,0.0]},"roar":{"f":[36,37,38,39,40,41,42,43,44,45],"fps":7.6,"op":[0.0,0.4,0.8,0.95,1.0,0.94,1.0,0.93,0.7,0.23]}},"icon":[1938,560]},"bary":{"cw":302,"ch":183,"cols":8,"k":1.0,"body":[3.0,5.0,296.0,178.0],"mouth":[296.0,50.0],"acts":{"idle":{"f":[0,1,2,3,4,5,6,7],"fps":4.0,"op":[0.0,0.0,0.0,0.0,0.0,0.0,0.0,0.0]},"walk":{"f":[8,9,10,11,12,13,14,15,16,17,18,19,20,21,22,23],"fps":16.0,"op":[0.0,0.0,0.0,0.0,0.0,0.0,0.0,0.0,0.0,0.0,0.0,0.0,0.0,0.0,0.0,0.0]},"bite":{"f":[24,25,26,27,28,29,30,31,32,33,34,35],"fps":14.667,"op":[0.0,0.14,0.28,0.52,0.78,1.0,0.37,0.06,0.2,0.14,0.07,0.0]},"roar":{"f":[36,37,38,39,40,41,42,43,44,45],"fps":7.6,"op":[0.0,0.4,0.8,0.95,1.0,0.94,1.0,0.93,0.7,0.23]}},"icon":[0,840]},"compy":{"cw":309,"ch":190,"cols":8,"k":1.0,"body":[3.0,5.0,303.0,186.0],"mouth":[303.0,40.0],"acts":{"idle":{"f":[0,1,2,3,4,5,6,7],"fps":4.0,"op":[0.0,0.0,0.0,0.0,0.0,0.0,0.0,0.0]},"walk":{"f":[8,9,10,11,12,13,14,15,16,17,18,19,20,21,22,23],"fps":16.0,"op":[0.0,0.0,0.0,0.0,0.0,0.0,0.0,0.0,0.0,0.0,0.0,0.0,0.0,0.0,0.0,0.0]},"bite":{"f":[24,25,26,27,28,29,30,31,32,33,34,35],"fps":14.667,"op":[0.0,0.14,0.28,0.52,0.78,1.0,0.37,0.06,0.2,0.14,0.07,0.0]},"roar":{"f":[36,37,38,39,40,41,42,43,44,45],"fps":7.6,"op":[0.0,0.4,0.8,0.95,1.0,0.94,1.0,0.93,0.7,0.23]}},"icon":[323,840]},"cerato":{"cw":302,"ch":190,"cols":8,"k":1.0,"body":[2.0,4.0,295.0,185.0],"mouth":[295.0,46.0],"acts":{"idle":{"f":[0,1,2,3,4,5,6,7],"fps":4.0,"op":[0.0,0.0,0.0,0.0,0.0,0.0,0.0,0.0]},"walk":{"f":[8,9,10,11,12,13,14,15,16,17,18,19,20,21,22,23],"fps":16.0,"op":[0.0,0.0,0.0,0.0,0.0,0.0,0.0,0.0,0.0,0.0,0.0,0.0,0.0,0.0,0.0,0.0]},"bite":{"f":[24,25,26,27,28,29,30,31,32,33,34,35],"fps":14.667,"op":[0.0,0.14,0.28,0.52,0.78,1.0,0.37,0.06,0.2,0.14,0.07,0.0]},"roar":{"f":[36,37,38,39,40,41,42,43,44,45],"fps":7.6,"op":[0.0,0.4,0.8,0.95,1.0,0.94,1.0,0.93,0.7,0.23]}},"icon":[646,840]},"elasmo":{"cw":301,"ch":173,"cols":8,"k":1.0,"body":[3.0,6.0,294.0,167.0],"mouth":[294.0,27.0],"acts":{"idle":{"f":[0,1,2,3,4,5,6,7],"fps":4.0,"op":[0.0,0.0,0.0,0.0,0.0,0.0,0.0,0.0]},"walk":{"f":[8,9,10,11,12,13,14,15,16,17,18,19,20,21,22,23],"fps":16.0,"op":[0.0,0.0,0.0,0.0,0.0,0.0,0.0,0.0,0.0,0.0,0.0,0.0,0.0,0.0,0.0,0.0]},"bite":{"f":[24,25,26,27,28,29,30,31,32,33,34,35],"fps":14.667,"op":[0.0,0.14,0.28,0.52,0.78,1.0,0.37,0.06,0.2,0.14,0.07,0.0]},"roar":{"f":[36,37,38,39,40,41,42,43,44,45],"fps":7.6,"op":[0.0,0.4,0.8,0.95,1.0,0.94,1.0,0.93,0.7,0.23]}},"icon":[969,840]},"ichthy":{"cw":315,"ch":145,"cols":8,"k":1.0,"body":[7.0,4.0,309.0,139.0],"mouth":[309.0,81.0],"acts":{"idle":{"f":[0,1,2,3,4,5,6,7],"fps":4.0,"op":[0.0,0.0,0.0,0.0,0.0,0.0,0.0,0.0]},"walk":{"f":[8,9,10,11,12,13,14,15,16,17,18,19,20,21,22,23],"fps":16.0,"op":[0.0,0.0,0.0,0.0,0.0,0.0,0.0,0.0,0.0,0.0,0.0,0.0,0.0,0.0,0.0,0.0]},"bite":{"f":[24,25,26,27,28,29,30,31,32,33,34,35],"fps":14.667,"op":[0.0,0.14,0.28,0.52,0.78,1.0,0.37,0.06,0.2,0.14,0.07,0.0]},"roar":{"f":[36,37,38,39,40,41,42,43,44,45],"fps":7.6,"op":[0.0,0.4,0.8,0.95,1.0,0.94,1.0,0.93,0.7,0.23]}},"icon":[1292,840]},"quetz":{"cw":323,"ch":273,"cols":8,"k":1.0,"body":[14.0,19.0,315.0,262.0],"mouth":[315.0,115.0],"acts":{"idle":{"f":[0,1,2,3,4,5,6,7],"fps":4.0,"op":[0.0,0.0,0.0,0.0,0.0,0.0,0.0,0.0]},"walk":{"f":[8,9,10,11,12,13,14,15,16,17,18,19,20,21,22,23],"fps":16.0,"op":[0.0,0.0,0.0,0.0,0.0,0.0,0.0,0.0,0.0,0.0,0.0,0.0,0.0,0.0,0.0,0.0]},"bite":{"f":[24,25,26,27,28,29,30,31,32,33,34,35],"fps":14.667,"op":[0.0,0.14,0.28,0.52,0.78,1.0,0.37,0.06,0.2,0.14,0.07,0.0]},"roar":{"f":[36,37,38,39,40,41,42,43,44,45],"fps":7.6,"op":[0.0,0.4,0.8,0.95,1.0,0.94,1.0,0.93,0.7,0.23]}},"icon":[1615,840]},"dimorph":{"cw":294,"ch":230,"cols":8,"k":1.0,"body":[13.0,16.0,288.0,222.0],"mouth":[288.0,114.0],"acts":{"idle":{"f":[0,1,2,3,4,5,6,7],"fps":4.0,"op":[0.0,0.0,0.0,0.0,0.0,0.0,0.0,0.0]},"walk":{"f":[8,9,10,11,12,13,14,15,16,17,18,19,20,21,22,23],"fps":16.0,"op":[0.0,0.0,0.0,0.0,0.0,0.0,0.0,0.0,0.0,0.0,0.0,0.0,0.0,0.0,0.0,0.0]},"bite":{"f":[24,25,26,27,28,29,30,31,32,33,34,35],"fps":14.667,"op":[0.0,0.14,0.28,0.52,0.78,1.0,0.37,0.06,0.2,0.14,0.07,0.0]},"roar":{"f":[36,37,38,39,40,41,42,43,44,45],"fps":7.6,"op":[0.0,0.4,0.8,0.95,1.0,0.94,1.0,0.93,0.7,0.23]}},"icon":[1938,840]}};
 const SHEETS = {}, ICON_IM = new Image(); let iconsOk = false;
 ICON_IM.onload = () => { iconsOk = true; try { if (typeof drawIcons === 'function' && W) drawIcons(); } catch (e) {} }; ICON_IM.src = 'sprites/icons.webp';
 function sheetOf(id) {

diff --git a/sw.js b/sw.js
@@ -1,5 +1,5 @@
 // Keeps a copy of the game on the device so it opens without internet. Shows the saved copy at once and refreshes it in the background.
-const CACHE = 'cretaceous-creatures-202611011554';
+const CACHE = 'cretaceous-creatures-202611011608';
 const SHELL = ['./', 'index.html', 'manifest.webmanifest', 'icon-180.png', 'icon-192.png', 'icon-512.png', 'sprites/icons.webp'];
 const ART = ["sprites/allo.webp","sprites/ankylo.webp","sprites/bary.webp","sprites/brachio.webp","sprites/carno.webp","sprites/cerato.webp","sprites/compy.webp","sprites/dilo.webp","sprites/dimorph.webp","sprites/diplo.webp","sprites/elasmo.webp","sprites/galli.webp","sprites/giga.webp","sprites/ichthy.webp","sprites/iguan.webp","sprites/kentro.webp","sprites/mosa.webp","sprites/pachy.webp","sprites/para.webp","sprites/ptera.webp","sprites/quetz.webp","sprites/raptor.webp","sprites/spino.webp","sprites/stego.webp","sprites/styra.webp","sprites/theri.webp","sprites/trex.webp","sprites/trike.webp"];   // fetched in the background so every dinosaur works offline too
 self.addEventListener('install', e => e.waitUntil(caches.open(CACHE).then(c => c.addAll(SHELL.map(u => new Request(u, { cache: 'reload' }))).then(() => { c.addAll(ART).catch(() => {}); })).then(() => self.skipWaiting())));
